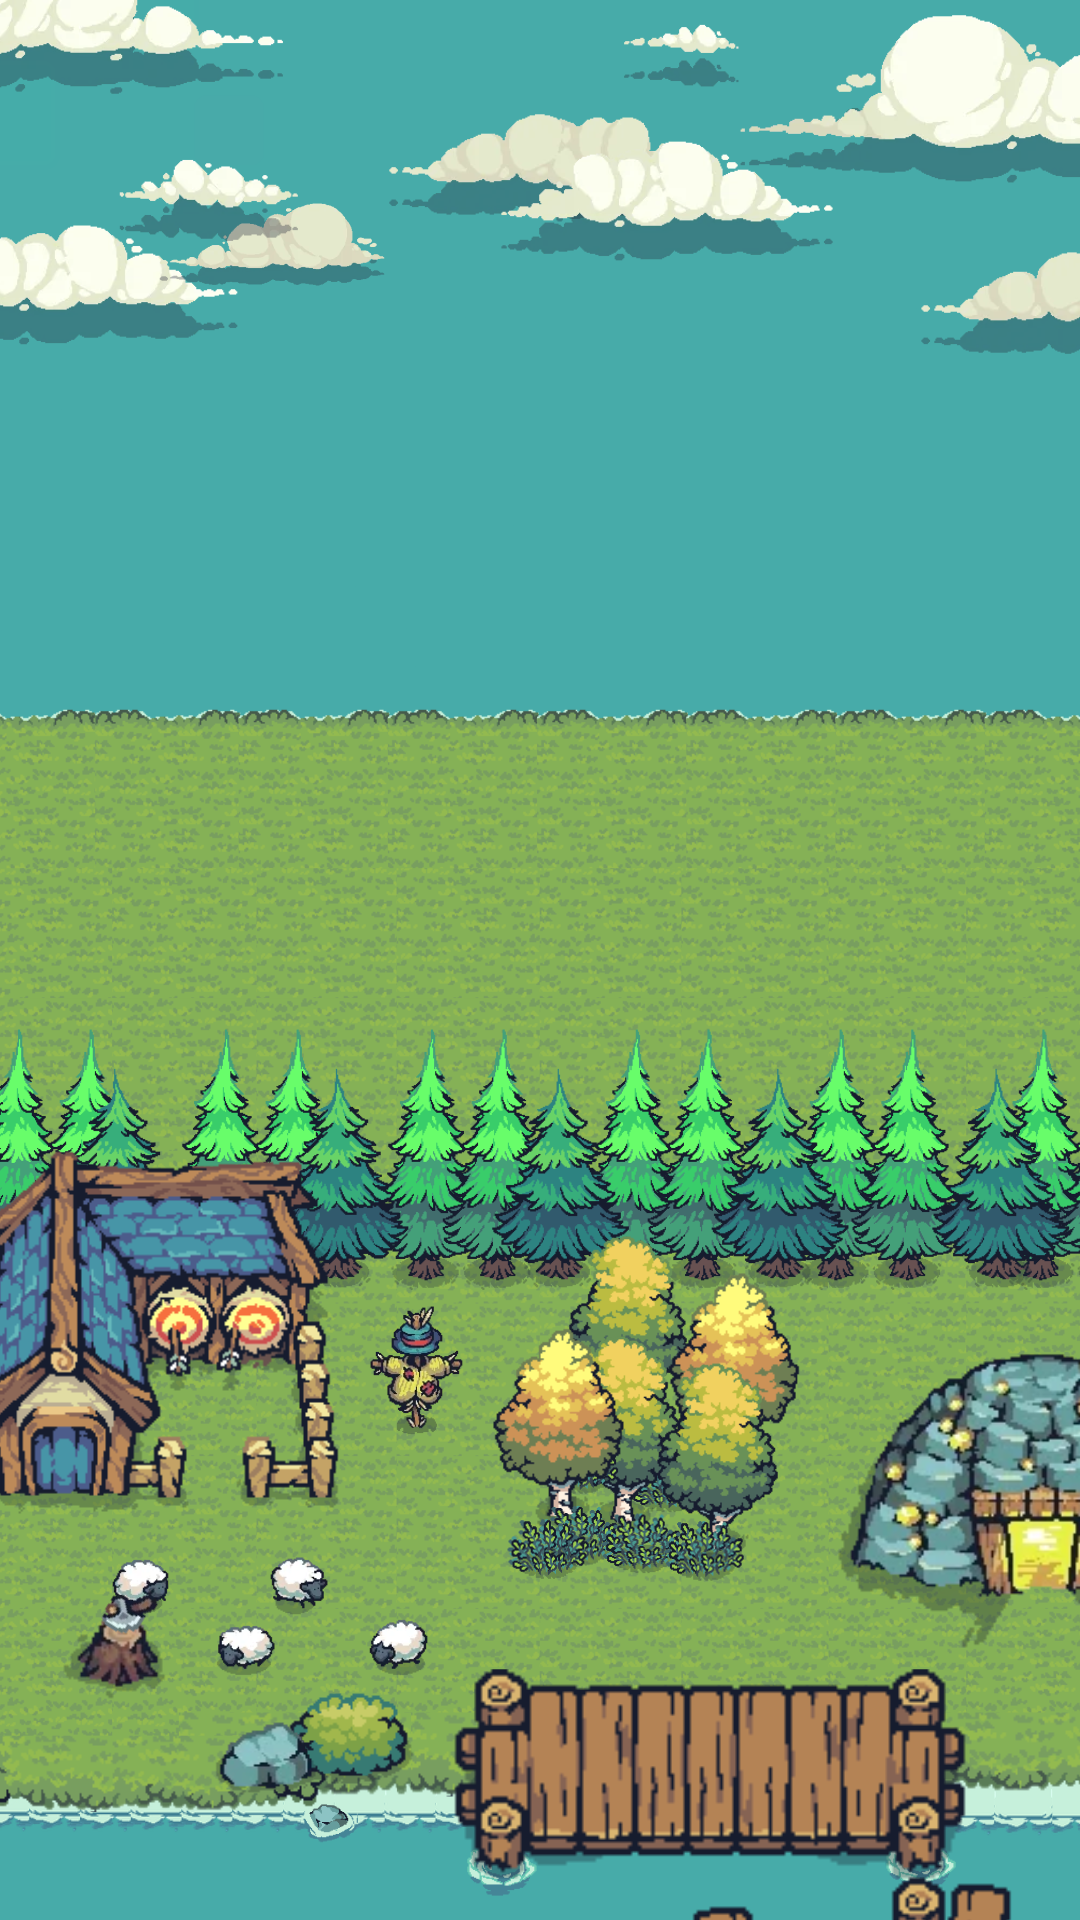
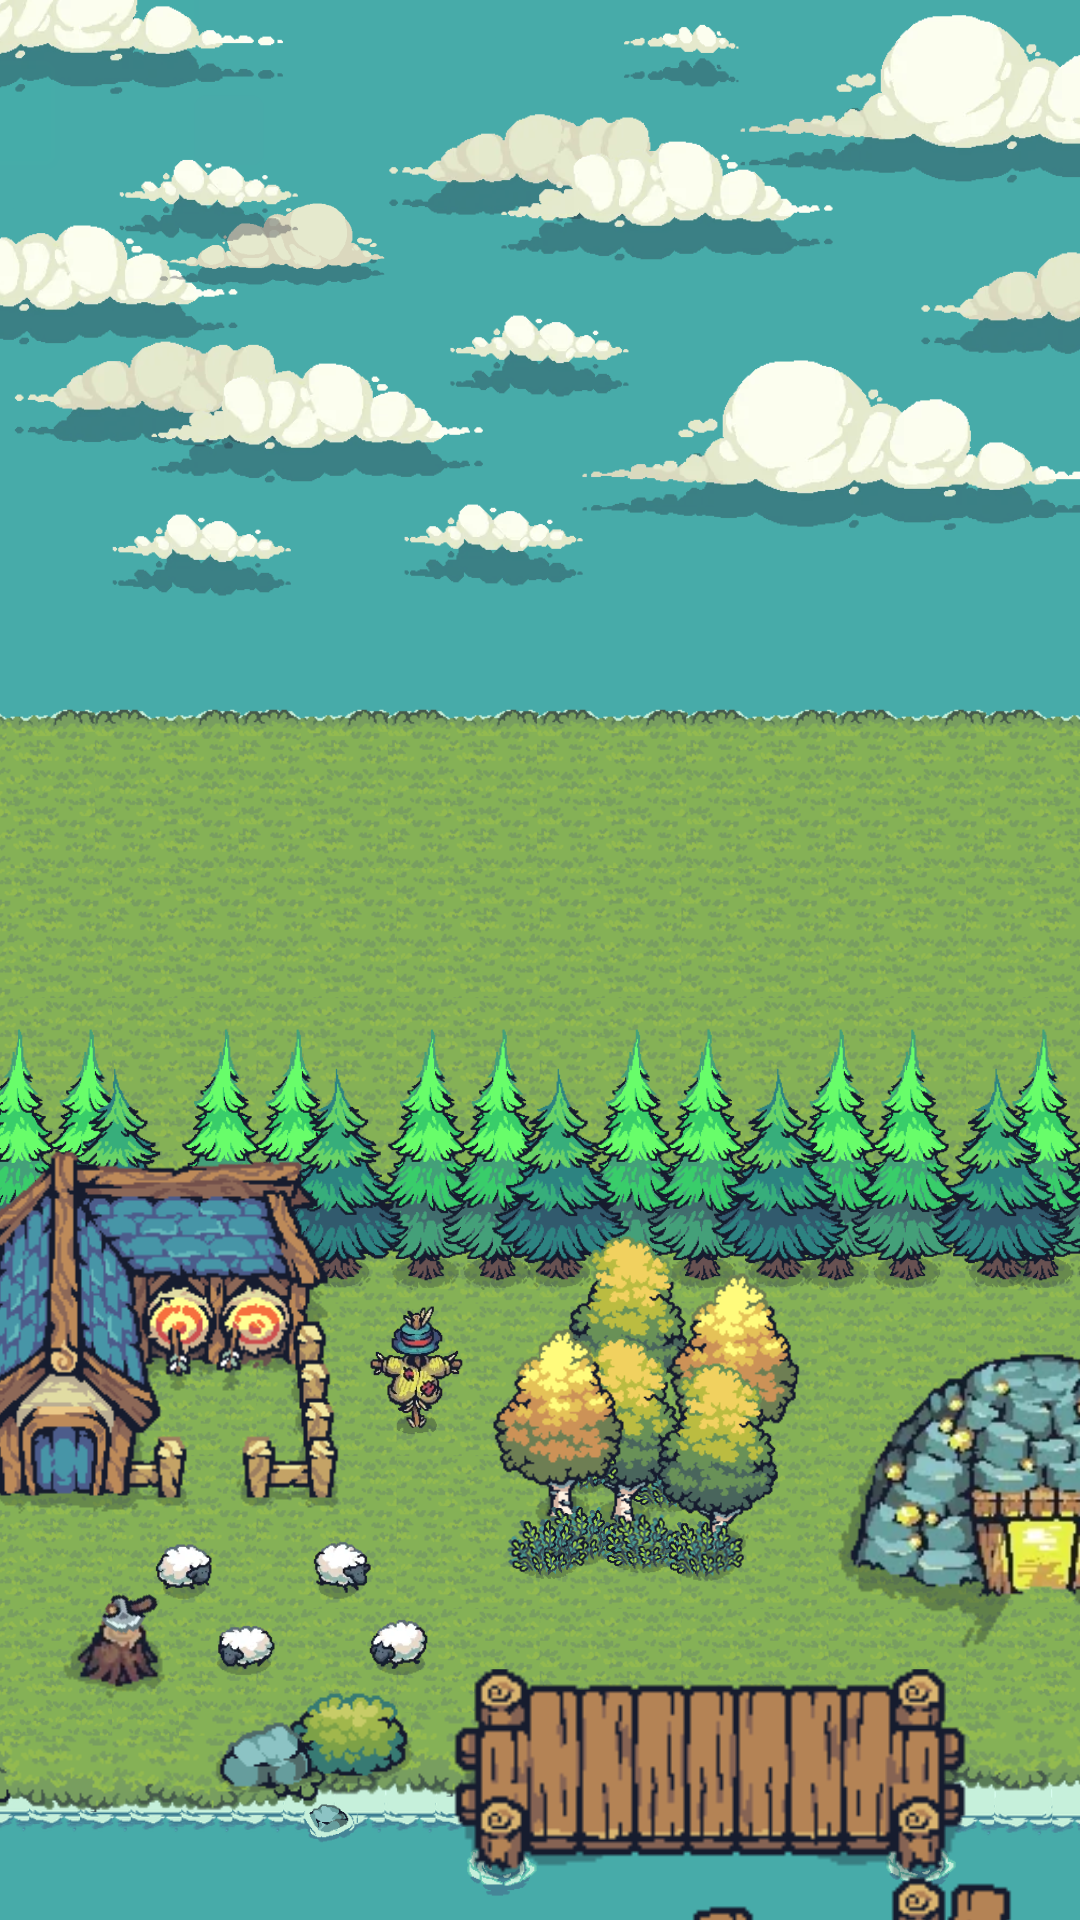
remain

diff --git a/lib/features/home/home_screen.dart b/lib/features/home/home_screen.dart
@@ -297,23 +297,73 @@ class _HomeScreenState extends State<HomeScreen> {
   Widget _weekCard() {
     final maxMinutes = _weekMinutes.fold(1, (a, b) => a > b ? a : b);
     final today = DateTime.now();
+    final streak = widget.history.calculateStreak();
     return Container(
       padding: const EdgeInsets.all(12),
       decoration: Flat.cardBox(),
       child: Column(
         children: [
-          Row(
-            children: [
-              const Text(
-                '7 ngày qua',
-                style: TextStyle(fontSize: 13, fontWeight: FontWeight.w700),
-              ),
-              const Spacer(),
-              Text(
-                '🔥 ${widget.history.calculateStreak()} ngày liên tiếp',
-                style: Flat.label,
-              ),
-            ],
+          Container(
+            key: const ValueKey('home-streak'),
+            width: double.infinity,
+            padding: const EdgeInsets.symmetric(horizontal: 12, vertical: 10),
+            decoration: BoxDecoration(
+              color: Flat.accent.withValues(alpha: 0.08),
+              borderRadius: BorderRadius.circular(8),
+              border: Border.all(color: Flat.accent.withValues(alpha: 0.35)),
+            ),
+            child: Row(
+              children: [
+                const Icon(
+                  Icons.local_fire_department_rounded,
+                  size: 32,
+                  color: Flat.accent,
+                ),
+                const SizedBox(width: 12),
+                Expanded(
+                  child: Column(
+                    crossAxisAlignment: CrossAxisAlignment.start,
+                    children: [
+                      const Text(
+                        'Chuỗi tập trung',
+                        style: TextStyle(
+                          fontSize: 12,
+                          fontWeight: FontWeight.w700,
+                          color: Flat.accent,
+                        ),
+                      ),
+                      Text.rich(
+                        TextSpan(
+                          children: [
+                            TextSpan(
+                              text: '$streak',
+                              style: const TextStyle(
+                                fontFamily: kPixelFont,
+                                fontSize: 42,
+                                fontWeight: FontWeight.w700,
+                                color: Flat.accent,
+                              ),
+                            ),
+                            const TextSpan(
+                              text: ' ngày liên tiếp',
+                              style: TextStyle(fontSize: 13, color: Flat.text),
+                            ),
+                          ],
+                        ),
+                      ),
+                    ],
+                  ),
+                ),
+              ],
+            ),
+          ),
+          const SizedBox(height: 12),
+          const Align(
+            alignment: Alignment.centerLeft,
+            child: Text(
+              '7 ngày qua',
+              style: TextStyle(fontSize: 13, fontWeight: FontWeight.w700),
+            ),
           ),
           const SizedBox(height: 10),
           SizedBox(

diff --git a/lib/features/village/building_sheet.dart b/lib/features/village/building_sheet.dart
@@ -109,15 +109,21 @@ class _CastleSheetState extends State<_CastleSheet> {
                 Text(b.effect, style: woodText(13)),
                 Text('Cấp $level/${b.maxLevel}', style: woodText(13)),
                 const SizedBox(height: 8),
-                Row(
+                Wrap(
+                  spacing: 12,
+                  runSpacing: 8,
+                  crossAxisAlignment: WrapCrossAlignment.center,
                   children: [
-                    if (!maxed) ...[
-                      const PixelIcon('coin', size: 20),
-                      Text(' ${cost.coins}  ', style: woodText(13)),
-                      const PixelIcon('log', size: 20),
-                      Text(' ${cost.logs}', style: woodText(13)),
-                    ],
-                    const Spacer(),
+                    if (!maxed)
+                      Row(
+                        mainAxisSize: MainAxisSize.min,
+                        children: [
+                          const PixelIcon('coin', size: 20),
+                          Text(' ${cost.coins}  ', style: woodText(13)),
+                          const PixelIcon('log', size: 20),
+                          Text(' ${cost.logs}', style: woodText(13)),
+                        ],
+                      ),
                     FilledButton(
                       key: Key('upgrade-${b.name}'),
                       onPressed: locked || maxed || !affordable || _busy

diff --git a/lib/features/overlay/blocker_overlay_widget.dart b/lib/features/overlay/blocker_overlay_widget.dart
@@ -72,7 +72,7 @@ class _BlockerOverlayWidgetState extends State<BlockerOverlayWidget> {
 
   TextStyle _pixel(double size, Color color) => TextStyle(
     fontFamily: kPixelFont,
-    fontSize: size,
+    fontSize: size + 2,
     color: color,
     fontWeight: FontWeight.w700,
   );
@@ -138,9 +138,12 @@ class _BlockerOverlayWidgetState extends State<BlockerOverlayWidget> {
                       children: [
                         const PixelIcon('coin', size: 24),
                         const SizedBox(width: 6),
-                        Text(
-                          'Quỹ trận: $_coins coin',
-                          style: _pixel(15, const Color(0xFFFFD54F)),
+                        Flexible(
+                          child: Text(
+                            'Quỹ trận: $_coins coin',
+                            style: _pixel(15, const Color(0xFFFFD54F)),
+                            textAlign: TextAlign.center,
+                          ),
                         ),
                       ],
                     ),

diff --git a/lib/features/village/village_screen.dart b/lib/features/village/village_screen.dart
@@ -133,7 +133,13 @@ class _VillageScreenState extends State<VillageScreen> {
                         : () => setState(() => _page--),
                     icon: const Icon(Icons.chevron_left),
                   ),
-                  Text('Mảnh đất ${_page + 1} / $pages', style: woodText(16)),
+                  Flexible(
+                    child: Text(
+                      'Mảnh đất ${_page + 1} / $pages',
+                      style: woodText(16),
+                      textAlign: TextAlign.center,
+                    ),
+                  ),
                   IconButton(
                     key: const Key('map-next'),
                     tooltip: 'Mảnh đất tiếp theo',

diff --git a/test/home_screen_test.dart b/test/home_screen_test.dart
@@ -53,6 +53,16 @@ void main() {
     expect(shadows, isEmpty);
   });
 
+  testWidgets('home highlights the streak above the weekly chart on narrow screens', (tester) async {
+    await pumpHome(tester);
+    tester.view.physicalSize=const Size(320,860);
+    await tester.pump();
+    expect(find.byKey(const ValueKey('home-streak')),findsOneWidget);
+    expect(find.text('Chuỗi tập trung'),findsOneWidget);
+    expect(tester.takeException(),isNull);
+    controller.dispose();
+  });
+
   testWidgets('start opens the setup sheet', (tester) async {
     await pumpHome(tester);
     await tester.tap(find.text('BẮT ĐẦU'));

diff --git a/lib/features/battle/camp_view.dart b/lib/features/battle/camp_view.dart
@@ -9,7 +9,7 @@ const kWoodBorder = Color(0xFF6B4F2A);
 const kWoodText = Color(0xFFF5E6C8);
 
 TextStyle woodText(double size, {Color color = kWoodText}) =>
-    TextStyle(fontFamily: kPixelFont, fontSize: size, color: color, fontWeight: FontWeight.w700);
+    TextStyle(fontFamily: kPixelFont, fontSize: size + 2, color: color, fontWeight: FontWeight.w700);
 
 /// Rest break between sessions: campfire scene + session reward + skip button.
 class CampView extends StatelessWidget {

diff --git a/lib/features/battle/focus_view.dart b/lib/features/battle/focus_view.dart
@@ -313,7 +313,7 @@ class _FocusViewState extends State<FocusView> with TickerProviderStateMixin {
 
 TextStyle _pixel(double size, Color color) => TextStyle(
       fontFamily: kPixelFont,
-      fontSize: size,
+      fontSize: size + 2,
       fontWeight: FontWeight.w700,
       color: color,
       shadows: const [Shadow(offset: Offset(2, 2), color: Color(0xFF3B2A10))],
